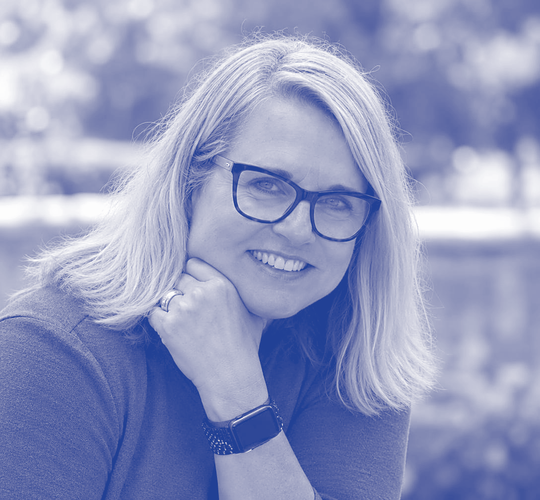
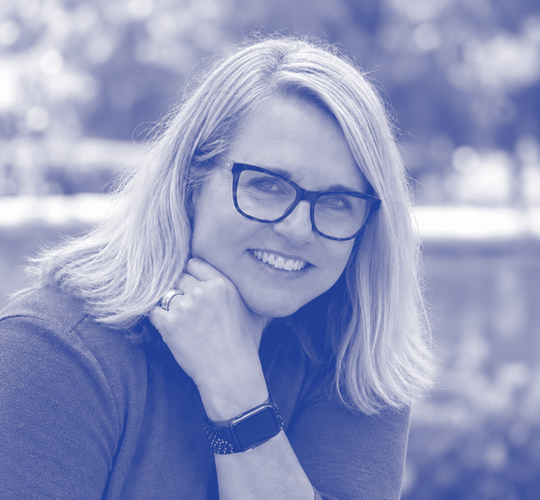
Changes

diff --git a/roadmap.md b/roadmap.md
@@ -15,4 +15,4 @@
 - [x] Schmetterlinge im Header-Video langsamer abspielen
 - [x] Header-Video: goldene Triangel-Nadeln fallen auf blauen Grund
 - [x] Neues Eyke-Foto in der Grafik-Karte (ohne Flaschen, geschärft, blau eingefärbt)
-- [ ] Eykes Gesicht im Kartenfoto etwas schlanker
+- [x] Eykes Gesicht im Kartenfoto etwas schlanker
